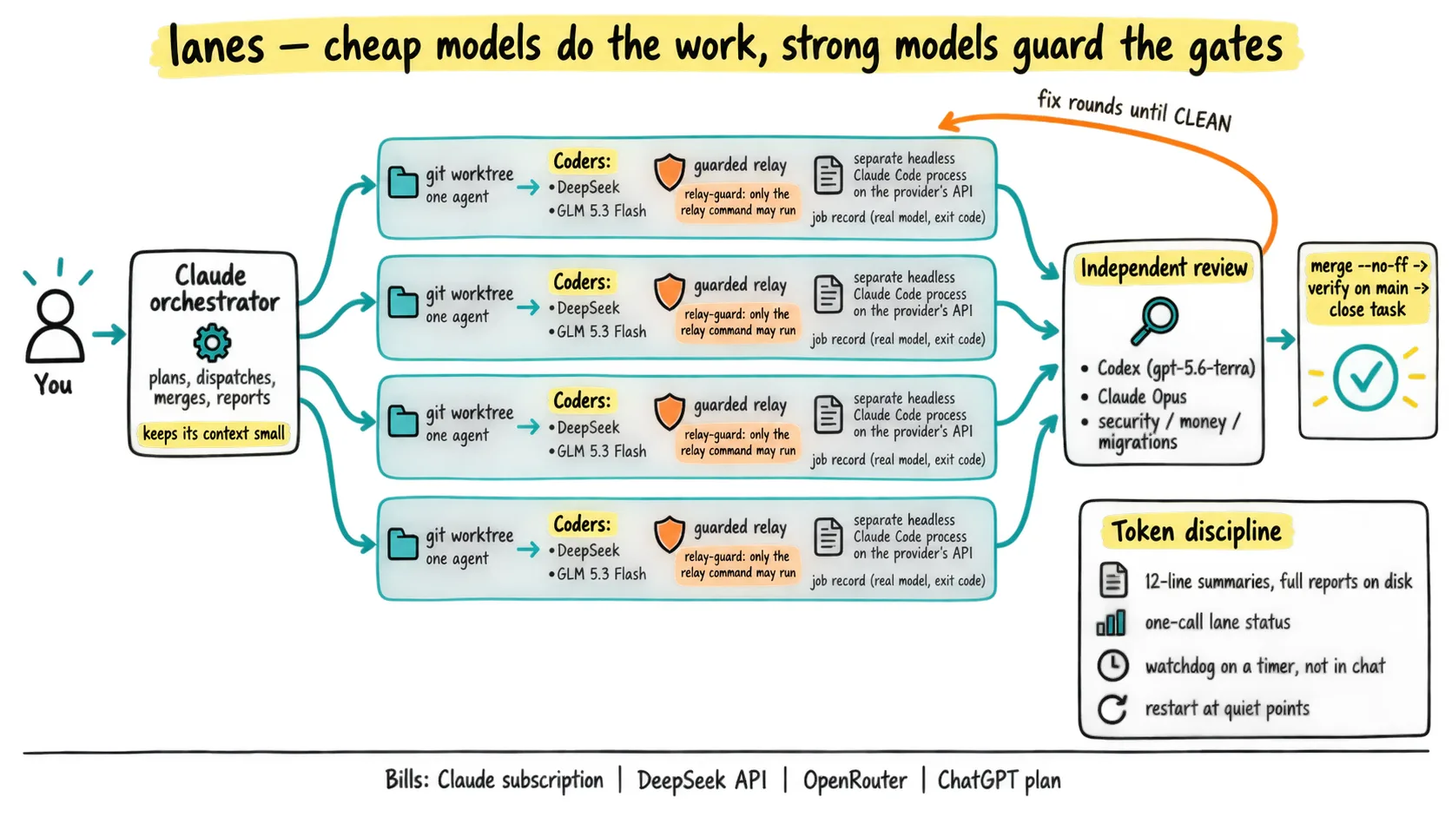
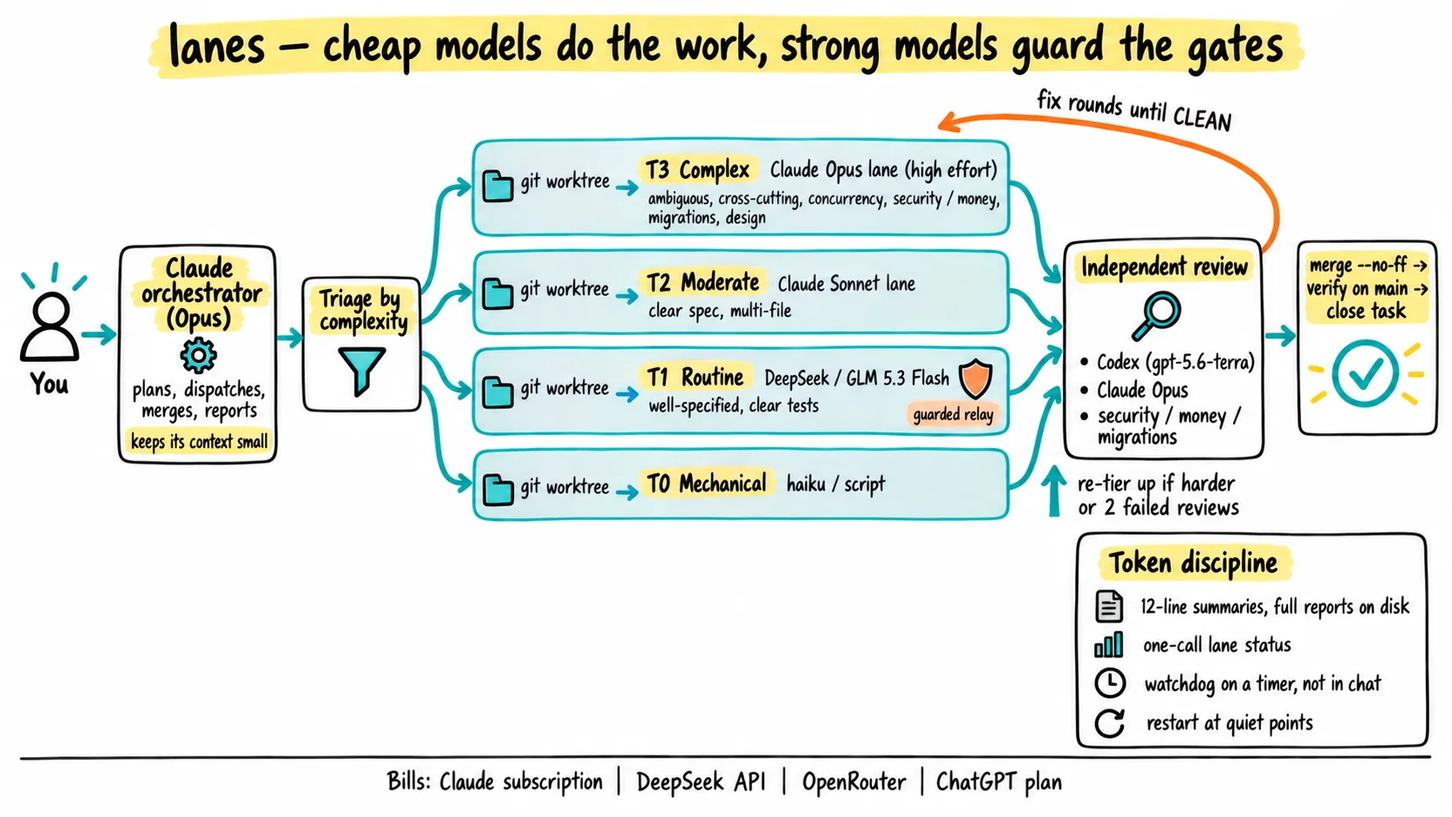
Complexity-tiered task triage: Opus lanes for complex work from the start
Adds opus-lane (Opus, high effort) and sonnet-lane agents, a T0-T3 triage
table in the skill, README and site, upward-only re-tiering, and a redrawn
infographic with the triage step.

Claude-Session: https://claude.ai/code/session_01QzDRDj8uRNkVmM86ry9EHc

diff --git a/docs/index.html b/docs/index.html
@@ -315,14 +315,14 @@ footer p{margin:0}
 
     <figure class="info" id="info">
       <img src="lanes-infographic.webp" width="1672" height="941" loading="lazy" decoding="async"
-        alt="Flow of the lanes harness. You talk to a Claude orchestrator that plans, dispatches, merges and reports while keeping its own context small. It sends work to parallel git worktree lanes, each with one agent: a DeepSeek or GLM 5.3 Flash coder running as a separate headless Claude Code process on the provider's API, behind a guarded relay where relay-guard lets only the relay command run, and each run leaves a job record with the real model and exit code. Every change then goes to an independent review, by Codex (gpt-5.6-terra) or by Claude Opus for security, money and migrations, and fix rounds loop back until the review is clean. Clean work is merged with --no-ff, verified on main, and the task is closed. A side panel lists the token discipline: 12-line summaries with full reports on disk, one-call lane status, a watchdog on a timer rather than in chat, and restarts at quiet points. Bills go to your Claude subscription, DeepSeek API, OpenRouter and ChatGPT plan.">
+        alt="How lanes works: a Claude Opus orchestrator triages each task by complexity into git-worktree lanes: T3 complex work to a Claude Opus lane, T2 moderate to a Claude Sonnet lane, T1 routine to DeepSeek or GLM behind a guarded relay, T0 mechanical to haiku or a script. Every lane flows into an independent review (Codex, or Claude Opus for security, money and migrations), loops through fix rounds until clean, re-tiers upward if needed, then merges and is verified on main.">
       <p class="missing">Infographic: lanes-infographic.png (see the step list below for the same flow).</p>
       <figcaption><span>The lanes flow, end to end.</span><a href="lanes-infographic.png">Open full size</a></figcaption>
     </figure>
 
     <ul class="pillars">
       <li style="--c:var(--work)"><h3>Lanes are worktrees</h3><p>Each lane is a git worktree with one agent in it. Lanes run in parallel, up to a cap you choose (default 6 concurrent agents, reviews included).</p></li>
-      <li style="--c:var(--review)"><h3>Cheapest capable model</h3><p>Every job goes to the cheapest model that can do it well: DeepSeek or GLM for well-specified routine coding, Codex for routine reviews, Claude Opus for orchestration and for complex or high-risk coding in its own lanes. Work that keeps failing review with a cheap model is escalated to Claude.</p></li>
+      <li style="--c:var(--review)"><h3>Cheapest capable model</h3><p>Every job goes to the cheapest model that can do it well: Each task is triaged by complexity first: Opus for complex work from the start, Sonnet for moderate work, DeepSeek or GLM for routine work, and Codex for routine reviews.</p></li>
       <li style="--c:var(--guard)"><h3>Gates don't change</h3><p>Every change gets an independent review before merge, the author never reviews its own work, and merges are verified on the main branch.</p></li>
     </ul>
 
@@ -353,34 +353,49 @@ footer p{margin:0}
 <section class="block" id="routing" aria-labelledby="routing-title">
   <div class="wrap">
     <p class="kicker"><b>02</b> Routing</p>
-    <h2 id="routing-title">Who does what, and who pays for it.</h2>
-    <p class="intro">Each role bills to an account you already hold. Keys stay in your shell rc; the skill never stores them.</p>
+    <h2 id="routing-title">Triage first. The tier picks the model.</h2>
+    <p class="intro">Every task is triaged by complexity before dispatch, so hard problems go straight to Opus and only routine work goes to the cheap models. Each tier bills to an account you already hold. Keys stay in your shell rc; the skill never stores them.</p>
     <table class="routes" aria-describedby="routes-note">
-      <thead><tr><th scope="col">Role</th><th scope="col">Model</th><th scope="col">Billed to</th></tr></thead>
+      <thead><tr><th scope="col">Tier / role</th><th scope="col">Lane</th><th scope="col">Billed to</th></tr></thead>
       <tbody>
         <tr class="r-guard">
-          <th scope="row"><span class="who">Guards the gates</span>Orchestration, merges, first review of authority, money, security or migration code</th>
-          <td data-label="Model"><span class="model">Claude Opus</span> (orchestrator)</td>
+          <th scope="row"><span class="who">T3 Complex</span>Ambiguous or cross-cutting work; concurrency or state machines; authority, security or money logic; migrations and contracts; unknown-root-cause debugging; live ops; design</th>
+          <td data-label="Lane"><span class="model">Claude Opus</span> (<code>opus-lane</code>, high effort)</td>
           <td data-label="Billed to"><span class="pill">your Claude subscription</span></td>
         </tr>
         <tr class="r-guard">
-          <th scope="row"><span class="who">Does the hard work</span>Complex or high-risk coding in its own lane: migrations and contracts, authority, security or money logic, cross-cutting or underspecified changes, live ops, design, and escalations</th>
-          <td data-label="Model"><span class="model">Claude Opus</span> lane (Sonnet for moderate work)</td>
+          <th scope="row"><span class="who">T2 Moderate</span>Clear spec, but multi-file or needs design judgment</th>
+          <td data-label="Lane"><span class="model">Claude Sonnet</span> (<code>sonnet-lane</code>)</td>
           <td data-label="Billed to"><span class="pill">your Claude subscription</span></td>
         </tr>
         <tr class="r-work">
-          <th scope="row"><span class="who">Does the routine work</span>Well-specified routine coding: features, fix rounds, refactors, tests</th>
-          <td data-label="Model"><span class="model">DeepSeek</span> (<code>deepseek-flash</code>) or <span class="model">GLM 5.3 Flash</span> (<code>z-ai/glm-5.3-flash</code> via OpenRouter)</td>
+          <th scope="row"><span class="who">T1 Routine</span>Well-specified, local, with clear tests: small features, fix rounds, refactors, test gaps</th>
+          <td data-label="Lane"><span class="model">DeepSeek</span> (<code>deepseek-flash</code>) or <span class="model">GLM 5.3 Flash</span> (<code>z-ai/glm-5.3-flash</code> via OpenRouter)</td>
           <td data-label="Billed to"><span class="pill">your DeepSeek / OpenRouter API keys</span></td>
         </tr>
+        <tr class="r-work">
+          <th scope="row"><span class="who">T0 Mechanical</span>Sweeps, status, evidence</th>
+          <td data-label="Lane"><span class="model">haiku</span> or a script</td>
+          <td data-label="Billed to"><span class="pill">your Claude subscription</span></td>
+        </tr>
         <tr class="r-review">
-          <th scope="row"><span class="who">Reviews the work</span>Routine code reviews and re-reviews</th>
-          <td data-label="Model"><span class="model">OpenAI Codex</span> (<code>gpt-5.6-terra</code>, Codex CLI)</td>
+          <th scope="row"><span class="who">Reviews</span>Routine reviews and re-reviews</th>
+          <td data-label="Lane"><span class="model">OpenAI Codex</span> (<code>gpt-5.6-terra</code>)</td>
           <td data-label="Billed to"><span class="pill">your ChatGPT plan</span></td>
+        </tr>
+        <tr class="r-review">
+          <th scope="row"><span class="who">First review of risky code</span>Authority, security, money or migration code</th>
+          <td data-label="Lane"><span class="model">Claude Opus</span></td>
+          <td data-label="Billed to"><span class="pill">your Claude subscription</span></td>
+        </tr>
+        <tr class="r-guard">
+          <th scope="row"><span class="who">Orchestration</span>Plans, triages, dispatches, merges, reports</th>
+          <td data-label="Lane"><span class="model">Claude Opus</span> (orchestrator)</td>
+          <td data-label="Billed to"><span class="pill">your Claude subscription</span></td>
         </tr>
       </tbody>
     </table>
-    <p class="routes-note" id="routes-note">A task that fails review twice with DeepSeek or GLM, or turns out riskier than it looked, is escalated to a Sonnet or Opus lane. Docs edits, mechanical sweeps and status checks go to Sonnet or haiku, or a script. Model overrides: <code>DEEPSEEK_MODEL</code>, <code>GLM_MODEL</code>, <code>CODEX_MODEL</code>.</p>
+    <p class="routes-note" id="routes-note">Tasks only ever move <b>up</b> a tier: when a lane reports a task is harder or riskier than triaged, or after two failed reviews at the current tier. Model overrides: <code>DEEPSEEK_MODEL</code>, <code>GLM_MODEL</code>, <code>CODEX_MODEL</code>.</p>
     <ul class="gates">
       <li><strong>Review before merge</strong>Every change from any model gets an independent review. Fix rounds loop until CLEAN.</li>
       <li><strong>Workers stay in worktrees</strong>DeepSeek and GLM never run in a checkout holding <code>.env</code> or secrets.</li>

diff --git a/SKILL.md b/SKILL.md
@@ -1,6 +1,6 @@
 ---
 name: lanes
-description: Token-efficient multi-lane orchestration for Claude Code. Use it to start or resume work on an existing (possibly unfinished) project, run parallel worktree lanes, route coding to cheap DeepSeek/GLM subagents and reviews to Codex, and report status. Triggers: "/lanes", "lanes start", "resume the lanes", "lane update", "lane update all", "pause lanes", "set up the lanes harness".
+description: Token-efficient multi-lane orchestration for Claude Code. Use it to start or resume work on an existing (possibly unfinished) project, run parallel worktree lanes, triage each task by complexity (Opus for complex work from the start, Sonnet for moderate, DeepSeek/GLM for routine) and route reviews to Codex, and report status. Triggers: "/lanes", "lanes start", "resume the lanes", "lane update", "lane update all", "pause lanes", "set up the lanes harness".
 ---
 
 # Lanes: orchestration harness
@@ -13,48 +13,51 @@ Paths: `K=~/.claude/skills/lanes`. The per-project state dir comes from `S=$(. $
 
 Run `bash $K/install.sh --check`. If something is missing, run `bash $K/install.sh` and relay its ACTION lines to the user exactly. Missing API keys are the user's job: they add `DEEPSEEK_API_KEY` from platform.deepseek.com and `OPENROUTER_API_KEY` from openrouter.ai/keys to `~/.bashrc`. Never ask the user to paste a key into the chat, and never write a key anywhere yourself.
 
-After installing, the user must restart Claude Code before the `deepseek`, `glm` and `codex` subagents appear. Until then, use the direct commands in §3. They need no restart.
+After installing, the user must restart Claude Code before the `opus-lane`, `sonnet-lane`, `deepseek`, `glm` and `codex` subagents appear. Until then, use the direct commands in §3. They need no restart.
 
 ## 1. Start or resume on a project (`/lanes start`)
 
 1. Read the project instructions (`AGENTS.md`, `CLAUDE.md`), the docs index, `git log --oneline -30`, `git worktree list`, open branches, and the tracker. Use Beads (`bd ready`, `bd list`) if present, then GitHub issues, then whatever the project uses. If the project has no tracker, ask the user whether to set up Beads. Don't invent a parallel TODO file.
 2. Find unfinished work: worktrees with uncommitted changes (never reset them), unmerged branches, notes saying PAUSED, failing CI.
-3. Build a short plan: done / in progress / ready / blocked, with dependencies. Show it as the "lane update all" table (§6).
+3. Build a short plan: done / in progress / ready / blocked, with dependencies. Give every open task a **tier** (§2), which decides its lane model before anything is dispatched. Show it as the "lane update all" table (§6).
 4. Ask the user, one question at a time, only for what you cannot infer: lane cap (default 6 concurrent agents, reviews included), priorities, which actions need their approval (push, deploy, external writes), and the commit trailer policy.
 5. Save these answers to this project's memory: cap, routing, approvals, report formats. Future sessions then resume without asking again.
 
-## 2. Routing (cheapest capable model first; quality gates unchanged)
+## 2. Triage, then route (complexity decides the model from the start)
 
-| Work | Goes to |
-|---|---|
-| Well-specified routine coding with clear tests: features, fix rounds, refactors, test gaps, CI/scripts | `deepseek` or `glm` subagent (or `model-relay` directly) |
-| Complex or high-risk coding in its own lane: cross-cutting or underspecified changes, authority, security or money logic, tricky concurrency, and escalations | Opus lane (`Agent`, model opus). Sonnet lane for moderate, well-scoped work |
-| Routine first reviews and fix-round re-reviews | `codex` subagent (or `codex-review` directly), gpt-5.6-terra on the user's ChatGPT plan |
-| Schema migrations and shared contracts, live ops and deploys, design and UX, first review of authority, money or security code | Opus (`Agent`, model opus) |
-| Docs edits, mechanical sweeps, status checks | Sonnet or haiku, or a script |
+Before dispatching, give every task a **tier**, and record it in the tracker and in the lane's `lanes.tsv` agent column (e.g. `Opus (T3)`). Pick the highest tier any signal points to. When in doubt between two tiers, pick the higher one.
 
-- **Escalate:** move a task to a Sonnet or Opus lane when a cheap model fails review twice on it, or when it turns out underspecified or riskier than it looked. Record the escalation in the tracker.
-- **Review before merge:** every change from any model gets an independent review, and the reviewer is never the author. Fix rounds loop until the review is CLEAN.
-- **DeepSeek and GLM run only in worktrees,** never in a checkout holding `.env` or secrets.
-- **Never send external models** secrets, credentials, customer or contact data, or exports.
+| Tier | Signals (any one is enough) | Dev lane | Review |
+|---|---|---|---|
+| **T3 Complex** (high reasoning) | Ambiguous or underspecified; cross-cutting or architectural; concurrency, races, locks or state machines; authority, security, money or privacy logic; schema migrations or shared contracts; debugging an unknown root cause; live ops or deploys; design and UX; hard to reverse | **`opus-lane`** (Opus, high effort) | Opus for authority, security, money or migrations; otherwise Codex |
+| **T2 Moderate** | Clear spec, but spans several files or packages or needs design judgment; unfamiliar area of the codebase; moderate blast radius | **`sonnet-lane`** (Sonnet) | Codex |
+| **T1 Routine** | Well-specified, local change with clear acceptance tests: small features, fix rounds from a review, refactors, test gaps, CI or scripts, docs-with-code | **`deepseek`** or **`glm`** (or `model-relay`) | Codex |
+| **T0 Mechanical** | Sweeps, renames, status or evidence gathering | haiku or a script | none, or spot-check |
+
+- **Re-tier upward:** re-tier as soon as a lane reports the task is harder or riskier than triaged, or after two failed reviews at the current tier. Never downgrade a task mid-flight.
+- **Fix rounds:** they usually stay with the author's tier. A fix round for T3 code may go to T1 when the review findings are precise and local.
+- **Review before merge:** every change gets an independent review, and the reviewer is never the author. Fix rounds loop until the review is CLEAN.
+- **DeepSeek and GLM run only in worktrees,** never in a checkout holding `.env` or secrets. Never send external models secrets, credentials, customer or contact data, or exports.
 - **If Codex is not installed,** use a Sonnet reviewer following `$K/rules/REVIEW_RULES.md`.
+- **Tell the user the tier:** in "lane update" and "lane update all", show each task's tier next to its agent.
 
 ## 3. Dispatch
 
 - **Worktree:** `$K/lane/new-worktree.sh <branch> [base]` creates `<repo>/.claude/worktrees/<branch>` and wires JS monorepo `node_modules` so workspace packages resolve to the worktree.
 - **Registry:** add or replace the lane's row in `$S/lanes.tsv`: lane, agent, task, worktree, relay job.
 - **Brief:** start from `$K/rules/brief-template.md` and keep it short. It must name the worktree path, the task id, the acceptance checks and the tests. For Claude agents, reference `$K/rules/LANE_RULES.md`. For DeepSeek and GLM, paste its contents, since they cannot see this skill.
-- **DeepSeek and GLM, preferred from the orchestrator:** Bash with `run_in_background: true`:
+- **T3 and T2 lanes:** `Agent` with `subagent_type: opus-lane` (T3) or `sonnet-lane` (T2). Until Claude Code restarts after install, use a plain `Agent` with model opus or sonnet.
+- **T1 lanes (DeepSeek or GLM), preferred from the orchestrator:** Bash with `run_in_background: true`:
   `cd <worktree> && RELAY_WAIT_S=6000 model-relay deepseek < $S/lanes/<lane>/brief.md` (or `glm`). It costs no Claude tokens, and you are notified on completion. If the output says STILL RUNNING, run `model-relay --wait <job>`.
 - **Codex review, preferred from the orchestrator:** Bash with `run_in_background: true`:
   `cd <worktree> && RELAY_WAIT_S=6000 codex-review <base-ref> < checklist.md`. The checklist is 3–10 task-specific lines, authority first.
 - **Subagents** (`deepseek`, `glm`, `codex`) are guarded haiku relays. Use them when a Task-tool call is more convenient. Give them the worktree path and the full brief or checklist.
-- **Claude agents:** `Agent` with `model` set per §2, the brief, and "final message ≤ 12 lines; full report to `<scratch>/report.md`".
+- **Every Claude lane brief** ends with "final message ≤ 12 lines; full report to `<scratch>/report.md`".
 - **Verify who did the work:** every relay run leaves `~/.local/state/model-relay.*` or `~/.local/state/codex-review.*` with `engine`/`model`, `cwd`, `rc` and output. The `model:` line comes from real usage data. DeepSeek and GLM call themselves "Claude"; ignore that.
 
 ## 4. Per-task flow
 
-dev in worktree → independent review → fix rounds until CLEAN → `git merge --no-ff` into the main branch → run the changed suites plus typecheck on main → close the tracker item with evidence (SHA, counts) → remove the worktree and branch → push only if the user allows it (run the secret scan first, and only fast-forward) → refill the lane from the ready queue.
+triage (tier → lane model) → dev in worktree → independent review → fix rounds until CLEAN → `git merge --no-ff` into the main branch → run the changed suites plus typecheck on main → close the tracker item with evidence (SHA, counts) → remove the worktree and branch → push only if the user allows it (run the secret scan first, and only fast-forward) → refill the lane from the ready queue.
 
 On the main checkout, stage explicit paths only. It may carry the user's local edits: never `commit -a`, and never overwrite or revert them. If a merge touches a file with local edits, save the local diff, merge, then re-apply it.
 
@@ -70,7 +73,7 @@ On the main checkout, stage explicit paths only. It may carry the user's local e
 
 - **"lane update":**
   - One lead line: are all lanes working or is any stuck, and how the % was estimated.
-  - A table `| Lane | Agent | Active task | Where it is | Est. |`. "Where it is" is concrete: commits, files, the test running, minutes in. Est. is a labelled rough %, backed by evidence from `lane-status.sh`.
+  - A table `| Lane | Agent (tier) | Active task | Where it is | Est. |`. "Where it is" is concrete: commits, files, the test running, minutes in. Est. is a labelled rough %, backed by evidence from `lane-status.sh`.
   - What merged or deployed since the last update.
   - Any problem found, and how you will handle it.
 - **"lane update all":** one table of every workstream's tasks: done, in progress (with agent and %), ready, and blocked (with the gate or owner decision), built from the tracker plus live lane state.

diff --git a/README.md b/README.md
@@ -1,17 +1,24 @@
 # lanes: a token-efficient orchestration harness for Claude Code
 
-`lanes` is a Claude Code skill that turns one session into an orchestrator. It audits a project, even one left half-finished, plans the remaining work, and runs it in parallel **lanes**, each lane being a git worktree with one agent working in it. It sends each job to the cheapest model that can do it well:
+`lanes` is a Claude Code skill that turns one session into an orchestrator. It audits a project, even one left half-finished, plans the remaining work, and runs it in parallel **lanes**, each lane being a git worktree with one agent working in it.
 
-| Role | Model | Billed to |
-|---|---|---|
-| Orchestration, merges, first review of authority, money, security or migration code | **Claude Opus** (orchestrator) | your Claude subscription |
-| Complex or high-risk coding in its own lane: migrations and shared contracts, authority, security or money logic, cross-cutting or underspecified changes, live ops and deploys, design and UI, and anything escalated | **Claude Opus** lane (Sonnet for moderate work) | your Claude subscription |
-| Well-specified routine coding in its own lane: features, fix rounds, refactors, tests | **DeepSeek** (`deepseek-flash`) or **GLM 5.3 Flash** (`z-ai/glm-5.3-flash` via OpenRouter) | your DeepSeek / OpenRouter API keys |
-| Routine code reviews and re-reviews | **OpenAI Codex** (`gpt-5.6-terra`, Codex CLI) | your ChatGPT plan |
+Every task is **triaged by complexity before dispatch**. The tier picks the model from the start: hard problems go straight to Opus, and only routine work goes to the cheap models.
 
-![How lanes works: a Claude orchestrator fans work out to parallel git-worktree lanes, where DeepSeek or GLM coders run behind a guarded relay; every change goes to an independent review (Codex, or Claude Opus for security, money and migrations), loops through fix rounds until clean, then merges and is verified on main.](docs/lanes-infographic.png)
+| Tier | What it looks like | Dev lane | Billed to |
+|---|---|---|---|
+| **T3 Complex** | Ambiguous or cross-cutting work; concurrency or state machines; authority, security or money logic; migrations and contracts; unknown-root-cause debugging; live ops; design | **Claude Opus** (`opus-lane`, high effort) | your Claude subscription |
+| **T2 Moderate** | Clear spec, but multi-file or needs design judgment | **Claude Sonnet** (`sonnet-lane`) | your Claude subscription |
+| **T1 Routine** | Well-specified, local, with clear tests: small features, fix rounds, refactors, test gaps | **DeepSeek** (`deepseek-flash`) or **GLM 5.3 Flash** (`z-ai/glm-5.3-flash` via OpenRouter) | your DeepSeek / OpenRouter API keys |
+| **T0 Mechanical** | Sweeps, status, evidence | haiku or a script | your Claude subscription |
 
-**Escalation:** a task moves up to a Sonnet or Opus lane if a cheap model fails review twice on it, or if the task turns out to be underspecified or riskier than it looked.
+**Reviews:**
+- **OpenAI Codex** (`gpt-5.6-terra`, on your ChatGPT plan) handles routine reviews and re-reviews.
+- **Claude Opus** gives the first review of authority, security, money or migration code.
+- **Orchestration and merges** run on Claude Opus.
+
+**Re-tiering:** a task only ever moves *up*. That happens when a lane reports it's harder or riskier than triaged, or after two failed reviews at the current tier.
+
+![How lanes works: a Claude Opus orchestrator triages each task by complexity into git-worktree lanes: T3 complex work to a Claude Opus lane, T2 moderate to a Claude Sonnet lane, T1 routine to DeepSeek or GLM behind a guarded relay, T0 mechanical to haiku or a script. Every lane flows into an independent review (Codex, or Claude Opus for security, money and migrations), loops through fix rounds until clean, re-tiers upward if needed, then merges and is verified on main.](docs/lanes-infographic.png)
 
 The quality gates don't change. Every change gets an independent review before merge, the author never reviews its own work, and merges are verified on the main branch.
 
@@ -39,9 +46,10 @@ bash ~/.claude/skills/lanes/install.sh --smoke    # optional: one tiny task thro
 bash ~/.claude/skills/lanes/install.sh --watchdog # optional (Linux): timer that cleans orphaned agent work
 ```
 
-The installer checks prerequisites and both keys, and tells you exactly what to add if something is missing. It backs up any file it replaces. **Restart Claude Code afterwards** so the `deepseek`, `glm` and `codex` subagents load.
+The installer checks prerequisites and both keys, and tells you exactly what to add if something is missing. It backs up any file it replaces. **Restart Claude Code afterwards** so the `deepseek`, `glm`, `codex`, `opus-lane` and `sonnet-lane` subagents load.
 
 It installs:
+- `~/.claude/agents/{opus-lane,sonnet-lane}.md`: tiered Claude lane coders (Opus at high effort, Sonnet at medium).
 - In `~/.local/bin`: `claude-via`, `claude-deepseek`, `claude-glm`, `model-relay`, `relay-guard` and `codex-review`.
 - `~/.claude/{deepseek,glm}.json`, which hold the base URL, the model and the *name* of the key variable.
 - `~/.claude/agents/{deepseek,glm,codex}.md`.
@@ -77,7 +85,7 @@ Model overrides: `DEEPSEEK_MODEL=deepseek-v4-pro`, `GLM_MODEL=z-ai/glm-5.3`, `CO
 
 ```bash
 rm -f ~/.local/bin/{claude-via,claude-deepseek,claude-glm,model-relay,relay-guard,codex-review}
-rm -f ~/.claude/{deepseek,glm}.json ~/.claude/agents/{deepseek,glm,codex}.md
+rm -f ~/.claude/{deepseek,glm}.json ~/.claude/agents/{deepseek,glm,codex,opus-lane,sonnet-lane}.md
 systemctl --user disable --now lanes-watchdog.timer 2>/dev/null; rm -rf ~/.claude/skills/lanes
 ```
 

diff --git a/agents/opus-lane.md b/agents/opus-lane.md
@@ -1,0 +1,14 @@
+---
+name: opus-lane
+description: Tier 3 lane coder for complex, high-reasoning work, used from the start rather than as a fallback. Covers ambiguous or underspecified tasks, cross-cutting or architectural changes, concurrency and state machines, authority, security or money logic, schema migrations and shared contracts, debugging an unknown root cause, live ops, and design. Works in one assigned git worktree.
+model: opus
+effort: high
+color: red
+---
+
+You are a Tier 3 lane agent: the task was triaged as complex and needs careful reasoning. First read and follow `~/.claude/skills/lanes/rules/LANE_RULES.md`, then the project's AGENTS.md/CLAUDE.md.
+
+- Before editing, write a short plan: invariants, failure modes, and what could go wrong under concurrency, retries or partial failure. Then implement it.
+- Prove behaviour with tests that fail before the change. Cover authority, idempotency, isolation and recovery paths where they apply.
+- If the task turns out to need a decision only the user can make, stop and report it. Do not guess.
+- Full report goes to `<scratch>/report.md`. Final message: at most 12 lines.

diff --git a/agents/sonnet-lane.md b/agents/sonnet-lane.md
@@ -1,0 +1,13 @@
+---
+name: sonnet-lane
+description: Tier 2 lane coder for moderate work. The spec is clear, but the task spans several files or packages, or needs some design judgment, without being high-risk. Works in one assigned git worktree.
+model: sonnet
+effort: medium
+color: purple
+---
+
+You are a Tier 2 lane agent. First read and follow `~/.claude/skills/lanes/rules/LANE_RULES.md`, then the project's AGENTS.md/CLAUDE.md.
+
+- Implement the task with tests that fail before the change.
+- If the work turns out riskier than Tier 2, stop and report why so the orchestrator can re-tier it to Opus. Examples: security, money or authority logic, concurrency, migrations, or an unclear spec.
+- Full report goes to `<scratch>/report.md`. Final message: at most 12 lines.
